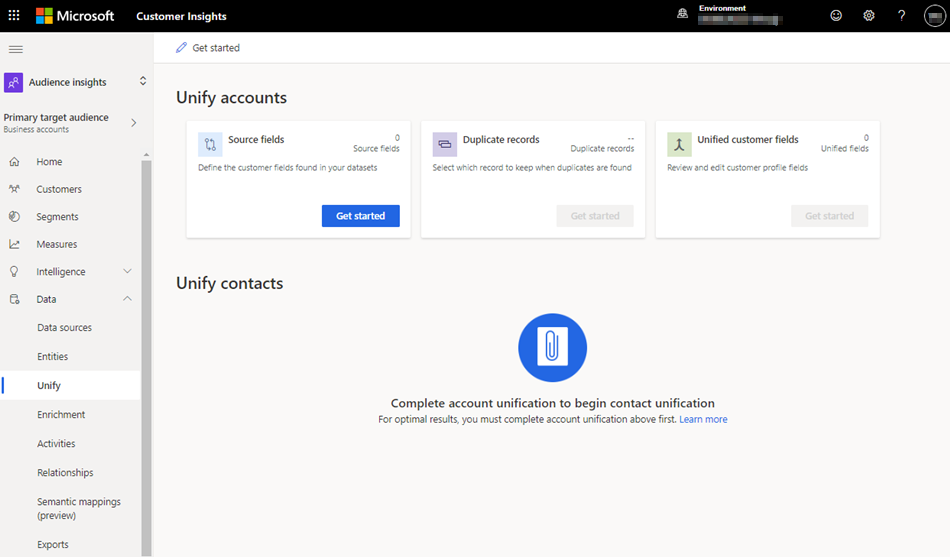
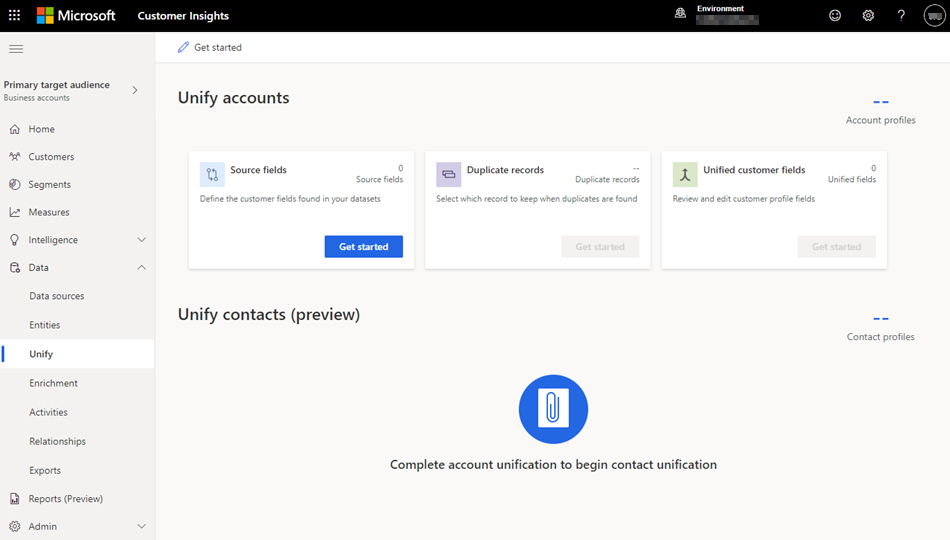
UI changes

diff --git a/ci-docs/review-unification.md b/ci-docs/review-unification.md
@@ -1,7 +1,7 @@
 ---
 title: "Review data unification"
 description: "Review the data unification steps, create unified customer profiles, and review the results"
-ms.date: 07/27/2022
+ms.date: 08/10/2022
 
 ms.subservice: audience-insights
 ms.topic: tutorial
@@ -18,13 +18,15 @@ searchScope:
 
 # Review data unification
 
+Review the summary of changes, create the unified profile, and review the results.
+
+## Review and create customer profiles
+
 This last step in the unification process shows a summary of the steps in the process and provides a chance to make changes before you create the unified profile.
 
 [!INCLUDE [m3-first-run-note](includes/m3-first-run-note.md)]
 
 :::image type="content" source="media/m3_review.png" alt-text="Screenshot of Review and create customer profiles.":::
-
-## Review the data unification steps
 
 1. Select **Edit** on any of the data unification steps to review and make any changes.
 
@@ -36,7 +38,7 @@ This last step in the unification process shows a summary of the steps in the pr
 
 The unification algorithm takes some time to complete and you can't change the configuration until it completes.
 
-## Review the results of data unification
+## View the results of data unification
 
 After unification, the **Data** > **Unify** page shows the number of unified customer profiles (or account profiles for B-to-B). The results of each step in the unification process display on each tile. For example, **Source fields** shows the number of mapped attributes (fields) and **Duplicate records** shows the number of duplicate records found.
 
@@ -49,11 +51,13 @@ We recommend you review the results, particularly the quality of your [match rul
 
 When needed, [make changes to the unification settings](data-unification-update.md) and rerun the unified profile.
 
-### Output entities from data unification
+### Verify output entities from data unification
 
-When the unification process completes, the unified customer profile entity, called *Customer*, is listed on the **Entities** page in the **Profiles** section. The first successful unification run creates the unified *Customer* entity. All subsequent runs expand that entity.
+Go to **Data** > **Entities** to verify the output entities.
 
-Deduplication and conflation entities are created and display in the **System** section in the **Entities** page. A deduplicated entity for each of the source entities is created with the name **Deduplication_DataSource_Entity**. The **ConflationMatchPairs** entity contains information about cross-entity matches.
+The unified customer profile entity, called *Customer*, displays in the **Profiles** section. The first successful unification run creates the unified *Customer* entity. All subsequent runs expand that entity.
+
+Deduplication and conflation entities are created and display in the **System** section. A deduplicated entity for each of the source entities is created with the name **Deduplication_DataSource_Entity**. The **ConflationMatchPairs** entity contains information about cross-entity matches.
 
 A deduplication output entity contains the following information:
 - IDs / Keys
@@ -65,7 +69,7 @@ A deduplication output entity contains the following information:
 
 ## Next Step
 
-- For B-to-B, perform [contact unification](data-unification-contacts.md).
+- For B-to-B, optionally perform [contact unification](data-unification-contacts.md).
 
 - For B-to-C, configure [activities](activities.md), [enrichments](enrichment-hub.md), [relationships](relationships.md), or [measures](measures.md) to gain more insights about your customers.
 

diff --git a/ci-docs/data-unification-contacts.md b/ci-docs/data-unification-contacts.md
@@ -2,7 +2,7 @@
 title: "Create a unified contact profile (preview)"
 description: "Go through the data unification process to create a single master dataset of contacts."
 recommendations: false
-ms.date: 08/08/2022
+ms.date: 08/10/2022
 ms.reviewer: v-wendysmith
 
 ms.subservice: audience-insights
@@ -39,7 +39,7 @@ Account and contact records must have a unique key (called a foreign key) that c
 
 ## Select source fields
 
-1. Under **Unify contacts**, select **Get started**.
+1. Under **Unify contacts (preview)**, select **Get started**.
 
 1. [Select the entities and fields](map-entities.md) for your contact data sources, including the primary keys and attribute types.
 
@@ -88,6 +88,8 @@ This step in the unification process connects your contact data to its correspon
 
 ## Review contact unification
 
+Review the summary of changes, create the unified profile, and review the results.
+
 ### Review and create contact profiles
 
 This last step in the unification process shows a summary of the steps in the process and provides a chance to make changes before you create the unified contact profile.
@@ -96,17 +98,15 @@ This last step in the unification process shows a summary of the steps in the pr
 
 1. Select **Edit** on any of the contact unification steps to review and make any changes.
 
-1. If you are satisfied with your selections, select **Create contact profiles**.
-
-### Monitor process and view results
-
-The **Unify** page displays while the unified contact profile is being created.
+1. If you are satisfied with your selections, select **Create contact profiles**. The **Unify** page displays while the unified contact profile is being created.
   
    :::image type="content" source="media/b2b_unify_refreshing.png" alt-text="Screenshot of Unify Contacts page with tiles showing Queued or Refreshing.":::
 
    [!INCLUDE [progress-details-pane-include](includes/progress-details-pane.md)]
 
 The unification algorithm takes some time to complete and you can't change the configuration until it completes.
+
+### View the results of contact unification
 
 After unification completes, the **Data** > **Unify** page shows the number of unified contact profiles. The results of each step in the unification process displays on each tile. For example, **Source fields** shows the number of mapped attributes (fields) and **Duplicate records** shows the number of duplicate records found.
 
@@ -125,7 +125,7 @@ Go to **Data** > **Entities** to verify the output entities.
 
 The unified contact profile entity, called *ContactProfile*, displays in the **Semantic entities** section. The first successful unification run creates the unified *ContactProfile* entity. All subsequent runs expand that entity.
 
-The *ContactsCustomer* entity (preview) is created and displays in the **System** section. This entity contains the contact data without the links to the accounts. This entity is used as input into the semantic mapping and relationship steps of contact unification.
+The *ContactsCustomer* entity (preview) is created and displays in the **Profiles** section. This entity contains the contact data without the links to the accounts. This entity is used as input into the semantic mapping and relationship steps of contact unification.
 
 Deduplication and conflation entities are created and display in the **System** section. A deduplicated entity for each of the source entities is created with the name **Deduplication_DataSource_Entity**. The **ContactsConflationMatchPairs** entity contains information about cross-entity matches.
 

diff --git a/ci-docs/map-entities.md b/ci-docs/map-entities.md
@@ -2,7 +2,7 @@
 title: "Select source fields for data unification"
 description: "The first step in the unification process is selecting entities, attributes, primary keys, and semantic types to map data to the unified customer profile."
 recommendations: false
-ms.date: 07/27/2022
+ms.date: 08/10/2022
 
 ms.subservice: audience-insights
 ms.topic: tutorial
@@ -30,7 +30,7 @@ The first step in unification is selecting the entities and fields within your d
 
    :::image type="content" source="media/m3_unify_land.png" alt-text="Screenshot of unify landing page for first run experience for individual customers.":::
 
-   For business accounts (B-to-B), the **Unify** landing page displays **Unify accounts** showing **Get started** on the first step, **Source fields**. The **Unify contacts** steps are pending completion of account unification.
+   For business accounts (B-to-B), the **Unify** landing page displays **Unify accounts** showing **Get started** on the first step, **Source fields**. The **Unify contacts (preview)** steps are optional and pending completion of account unification.
 
    :::image type="content" source="media/b2b_unify_land.png" alt-text="Screenshot of unify landing page for first run experience for business accounts.":::
 
